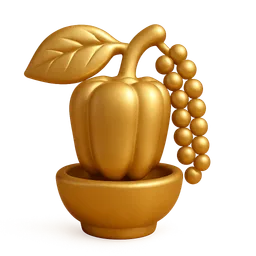
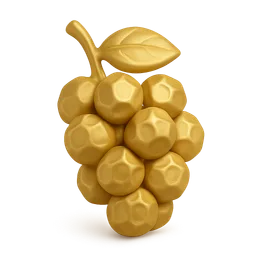
assets: 11 more gold plant renders, black pepper redrawn
New: almond, banana, cashew, cherry, coffee, date, garlic, grape, pumpkin
seeds, red apple, yellow pepper. Black pepper was replaced rather than added.

The gold pass in build-assets skips a plant whose webp is already on disk and
reuses the cached original, so a replaced render is invisible to it. This batch
was pulled after clearing assets/plants-gold and the gold-* cache entries, which
is the way to run it whenever Ricardo may have redrawn something rather than
only added.

33 gold renders now.

diff --git a/projectfood-mobile/src/data/plantGoldImages.generated.ts b/projectfood-mobile/src/data/plantGoldImages.generated.ts
@@ -3,26 +3,37 @@ import type { ImageSourcePropType } from 'react-native';
 
 /** Gold renders (bucket food-images/gold/<file>), 256 px webp; a plant without one keeps its normal render. */
 export const PLANT_GOLD_IMAGES: Record<string, ImageSourcePropType> = {
+  'almond': require('@/assets/plants-gold/almond.webp'),
   'avocado': require('@/assets/plants-gold/avocado.webp'),
+  'banana': require('@/assets/plants-gold/banana.webp'),
   'black-pepper': require('@/assets/plants-gold/black-pepper.webp'),
   'blueberry': require('@/assets/plants-gold/blueberry.webp'),
   'carrot': require('@/assets/plants-gold/carrot.webp'),
+  'cashew': require('@/assets/plants-gold/cashew.webp'),
+  'cherry': require('@/assets/plants-gold/cherry.webp'),
   'cherry-tomato': require('@/assets/plants-gold/cherry-tomato.webp'),
   'chia-seed': require('@/assets/plants-gold/chia-seed.webp'),
   'chilli-flakes': require('@/assets/plants-gold/chilli-flakes.webp'),
+  'coffee': require('@/assets/plants-gold/coffee.webp'),
   'corn': require('@/assets/plants-gold/corn.webp'),
   'courgette': require('@/assets/plants-gold/courgette.webp'),
   'cucumber': require('@/assets/plants-gold/cucumber.webp'),
+  'date': require('@/assets/plants-gold/date.webp'),
   'flaxseed': require('@/assets/plants-gold/flaxseed.webp'),
+  'garlic': require('@/assets/plants-gold/garlic.webp'),
+  'grape': require('@/assets/plants-gold/grape.webp'),
   'iceberg-lettuce': require('@/assets/plants-gold/iceberg-lettuce.webp'),
   'mango': require('@/assets/plants-gold/mango.webp'),
   'oats': require('@/assets/plants-gold/oats.webp'),
   'onion': require('@/assets/plants-gold/onion.webp'),
   'peach': require('@/assets/plants-gold/peach.webp'),
   'potato': require('@/assets/plants-gold/potato.webp'),
+  'pumpkin-seeds': require('@/assets/plants-gold/pumpkin-seeds.webp'),
+  'red-apple': require('@/assets/plants-gold/red-apple.webp'),
   'red-pepper': require('@/assets/plants-gold/red-pepper.webp'),
   'spring-onion': require('@/assets/plants-gold/spring-onion.webp'),
   'strawberry': require('@/assets/plants-gold/strawberry.webp'),
   'tomato': require('@/assets/plants-gold/tomato.webp'),
+  'yellow-pepper': require('@/assets/plants-gold/yellow-pepper.webp'),
   'yogurt': require('@/assets/plants-gold/yogurt.webp'),
 };
